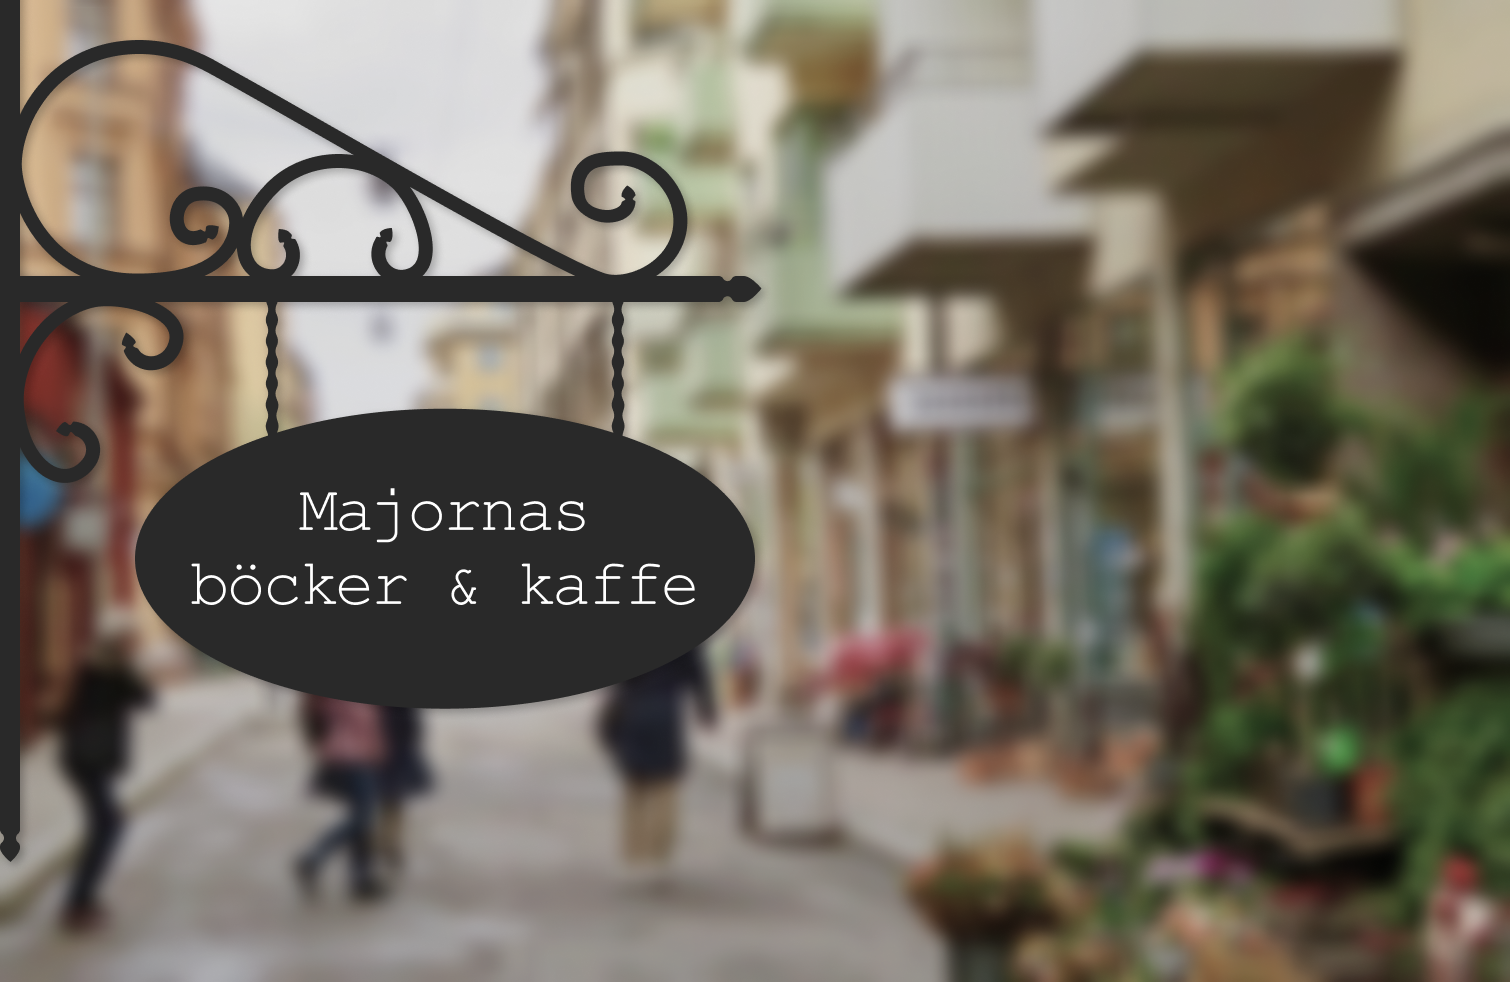
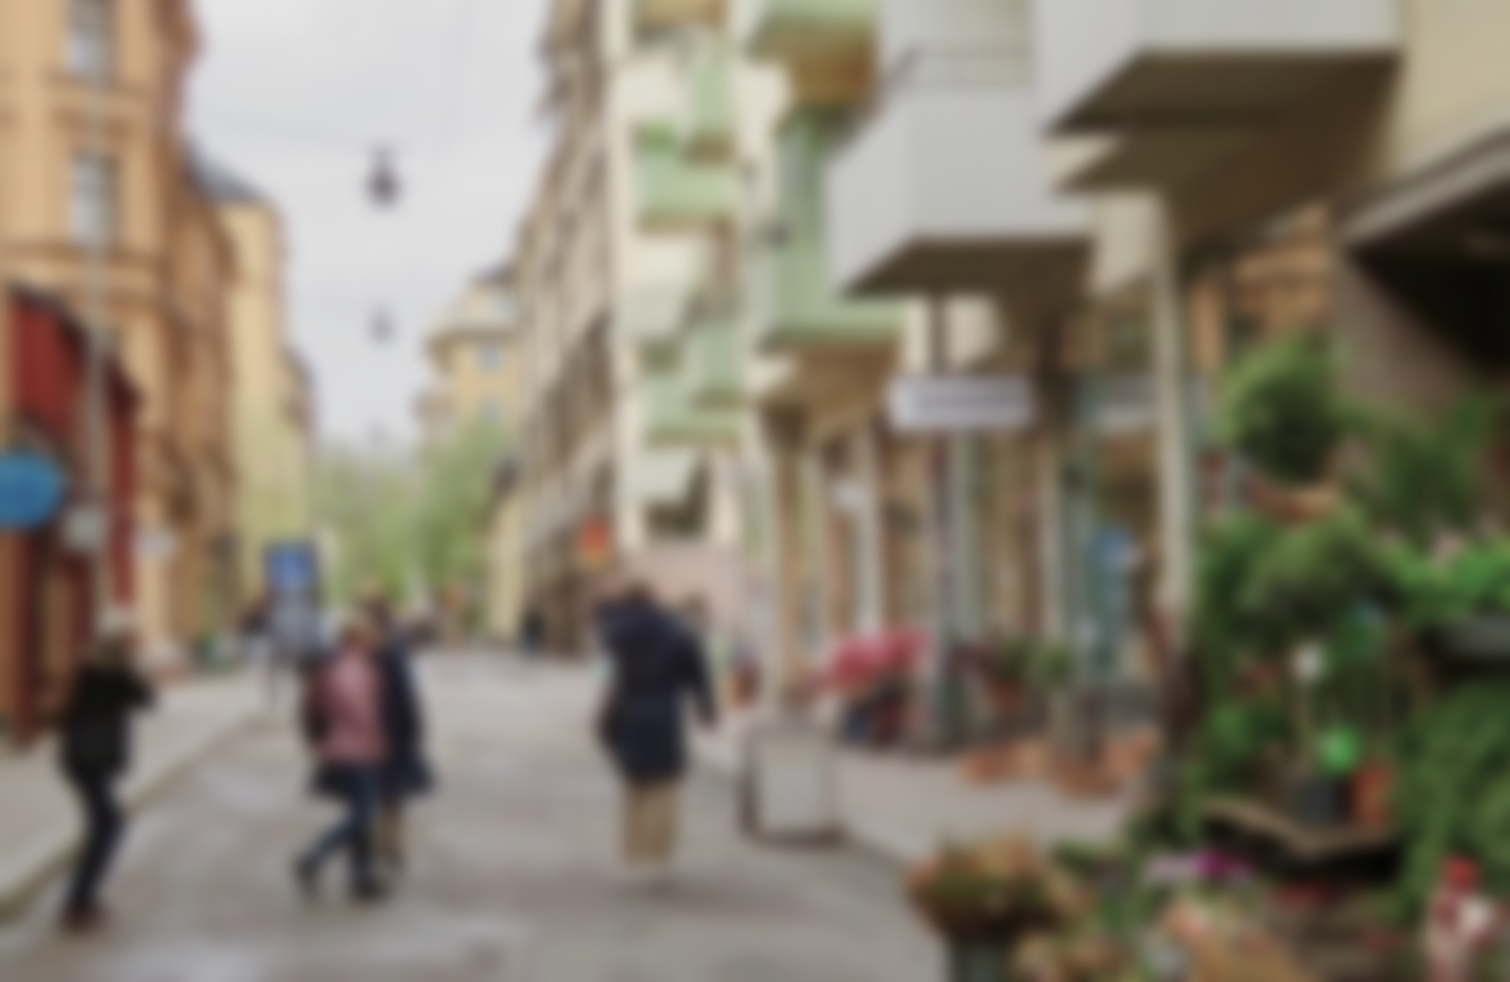
Enter page is completed

Changed region(s): [[0.0, 0.0, 0.498, 0.8859], [0.996, 0.0, 1.0, 1.0]]

diff --git a/Next/pages/index.tsx b/Next/pages/index.tsx
@@ -1,79 +1,12 @@
 import type { NextPage } from "next";
-import { Bookgrid } from "../Components/Bookgrid/Bookgrid";
-import { BookgridContainer } from "../Components/BookgridContainer/BookgridContainer";
-import { Bookmark } from "../Components/Bookmark/Bookmark";
-import { Footer } from "../Components/Footer/Footer";
-import { Navbar } from "../Components/Navbar/Navbar";
-import { HeroStripes } from "../Components/NewsHero/HeroStripes/HeroStripes";
-import { NewsHero } from "../Components/NewsHero/NewsHero";
-import { SanityClient } from "../SanityClient";
+import { EnterPage } from "../Components/EnterPage/EnterPage";
 
-interface propInterface {
-  newsInfo: {
-    h1: string;
-    firstText: string;
-    secondText: string;
-    thirdText: string;
-  };
-
-  companyInfo: {};
-  openingHours: [{}];
-  eventInfo: [
-    {
-      name: string;
-      date: string;
-      description: string;
-      slug: string;
-      image: string;
-      _key: string;
-    }
-  ];
-  bookGrid: [
-    {
-      title?: string;
-      author?: string;
-      cover?: string;
-      imageUrl?: string;
-    }
-  ];
-}
-
-const Home: NextPage<propInterface> = ({
-  newsInfo,
-  openingHours,
-  companyInfo,
-  bookGrid,
-}) => {
+const Start: NextPage = ({}) => {
   return (
-    <div>
-      <Navbar />
-      <NewsHero newsInfo={newsInfo} />
-      <Bookmark text="Nyinkomna böcker" />
-      <HeroStripes heroStripesText={newsInfo}></HeroStripes>
-      <BookgridContainer bookGrid={bookGrid} />
-      <Bookmark text="Senaste på Instagram" />
-      {/* Put instagram here */}
-      <Footer openingHours={openingHours} companyInfo={companyInfo} />
-    </div>
+    <>
+      <EnterPage />
+    </>
   );
 };
 
-export const getServerSideProps = async () => {
-  const newsInfo = await SanityClient.fetch(`*[_type == "newsHero"][0]`);
-  const openingHours = await SanityClient.fetch(`*[_type == 'openingHours']`);
-  const companyInfo = await SanityClient.fetch(`*[_type == "info"][0]`);
-  const eventInfo = await SanityClient.fetch(`*[_type == 'event']{
-    "imageUrl": image.asset->url,
-      ...
-    }`);
-  const bookGrid = await SanityClient.fetch(`*[_type == 'book']{
-    "imageUrl": cover.asset->url,
-      ...
-      }`);
-
-  return {
-    props: { newsInfo, openingHours, companyInfo, eventInfo, bookGrid },
-  };
-};
-
-export default Home;
+export default Start;

diff --git a/Next/pages/start.tsx b/Next/pages/start.tsx
@@ -1,12 +1,79 @@
 import type { NextPage } from "next";
-import { EnterPage } from "../Components/EnterPage/EnterPage";
+import { Bookgrid } from "../Components/Bookgrid/Bookgrid";
+import { BookgridContainer } from "../Components/BookgridContainer/BookgridContainer";
+import { Bookmark } from "../Components/Bookmark/Bookmark";
+import { Footer } from "../Components/Footer/Footer";
+import { Navbar } from "../Components/Navbar/Navbar";
+import { HeroStripes } from "../Components/NewsHero/HeroStripes/HeroStripes";
+import { NewsHero } from "../Components/NewsHero/NewsHero";
+import { SanityClient } from "../SanityClient";
 
-const Start: NextPage = ({}) => {
+interface propInterface {
+  newsInfo: {
+    h1: string;
+    firstText: string;
+    secondText: string;
+    thirdText: string;
+  };
+
+  companyInfo: {};
+  openingHours: [{}];
+  eventInfo: [
+    {
+      name: string;
+      date: string;
+      description: string;
+      slug: string;
+      image: string;
+      _key: string;
+    }
+  ];
+  bookGrid: [
+    {
+      title?: string;
+      author?: string;
+      cover?: string;
+      imageUrl?: string;
+    }
+  ];
+}
+
+const Home: NextPage<propInterface> = ({
+  newsInfo,
+  openingHours,
+  companyInfo,
+  bookGrid,
+}) => {
   return (
-    <>
-      <EnterPage />
-    </>
+    <div>
+      <Navbar />
+      <NewsHero newsInfo={newsInfo} />
+      <Bookmark text="Nyinkomna böcker" />
+      <HeroStripes heroStripesText={newsInfo}></HeroStripes>
+      <BookgridContainer bookGrid={bookGrid} />
+      <Bookmark text="Senaste på Instagram" />
+      {/* Put instagram here */}
+      <Footer openingHours={openingHours} companyInfo={companyInfo} />
+    </div>
   );
 };
 
-export default Start;
+export const getServerSideProps = async () => {
+  const newsInfo = await SanityClient.fetch(`*[_type == "newsHero"][0]`);
+  const openingHours = await SanityClient.fetch(`*[_type == 'openingHours']`);
+  const companyInfo = await SanityClient.fetch(`*[_type == "info"][0]`);
+  const eventInfo = await SanityClient.fetch(`*[_type == 'event']{
+    "imageUrl": image.asset->url,
+      ...
+    }`);
+  const bookGrid = await SanityClient.fetch(`*[_type == 'book']{
+    "imageUrl": cover.asset->url,
+      ...
+      }`);
+
+  return {
+    props: { newsInfo, openingHours, companyInfo, eventInfo, bookGrid },
+  };
+};
+
+export default Home;

diff --git a/Next/Components/EnterPage/EnterPage.tsx b/Next/Components/EnterPage/EnterPage.tsx
@@ -2,13 +2,32 @@ import React from "react";
 import * as S from "./EnterPage.styles";
 import { Button } from "../Button/Button";
 import Link from "next/link";
+import Image from "next/image";
 
 export const EnterPage = () => {
   return (
     <S.EnterPageContainer>
       {" "}
-      <Link href="/">
-        <Button text="Till hemsidan" margin="40rem 50vw 0 50vw" padding="8px" />
+      <S.SignImageWrapperMobile>
+        <Image
+          src="/Icons/Sign-mobile.svg"
+          alt="sign"
+          width={331}
+          height={419}
+        />
+      </S.SignImageWrapperMobile>
+      <S.SignImageWrapperDesktop>
+        <Image
+          src="/Icons/Sign-desktop.svg"
+          alt="sign"
+          width={600}
+          height={759}
+        />
+      </S.SignImageWrapperDesktop>
+      <Link href="/start">
+        <S.ButtonWrapper>
+          <Button text="Till hemsidan" padding="8px" />
+        </S.ButtonWrapper>
       </Link>
     </S.EnterPageContainer>
   );

diff --git a/Next/Components/EnterPage/EnterPage.styles.ts b/Next/Components/EnterPage/EnterPage.styles.ts
@@ -7,10 +7,32 @@ export const EnterPageContainer = styled.div`
   left: 0;
   width: 100vw;
   height: 100vh;
-  background-size: contain !important;
+  background-size: cover !important;
   background-repeat: no-repeat !important;
 
-  @media (${({ theme }) => theme.breakpoint.desktop}) {
+  @media (${({ theme }) => theme.breakpoint.tablet}) {
     background: url("/Images/EnterPage/Enter-page-desktop.webp");
   }
+`;
+export const SignImageWrapperMobile = styled.div`
+  display: block;
+
+  @media (${({ theme }) => theme.breakpoint.desktop}) {
+    display: none;
+  }
+`;
+export const SignImageWrapperDesktop = styled.div`
+display: none;
+
+  @media (${({ theme }) => theme.breakpoint.desktop}) {
+    display: block;
+`;
+export const ButtonWrapper = styled.div`
+  display: flex;
+  flex-direction: row;
+  justify-content: center;
+  align-items: center;
+  position: absolute;
+  width: 100vw;
+  top: 667px;
 `;

diff --git a/Next/Components/AboutHero/AboutHero.styles.ts b/Next/Components/AboutHero/AboutHero.styles.ts
@@ -27,7 +27,7 @@ export const HeroTextWrapper = styled.div`
   padding-left: 24px;
   padding-bottom: 64px;
 
-  @media (${({ theme }) => theme.breakpoint}) {
+  @media (${({ theme }) => theme.breakpoint.desktop}) {
     padding-top: 57px;
     padding-right: 305px;
     padding-left: 99px;

diff --git a/Next/Components/Navbar/Navbar.styles.ts b/Next/Components/Navbar/Navbar.styles.ts
@@ -60,7 +60,7 @@ export const NavMenu = styled.div`
 `;
 
 export const LinkWrapper = styled.div<{ active: boolean }>`
-  text-decoration: underline;
+  text-decoration: none;
   ${(props) =>
     props.active &&
     `
